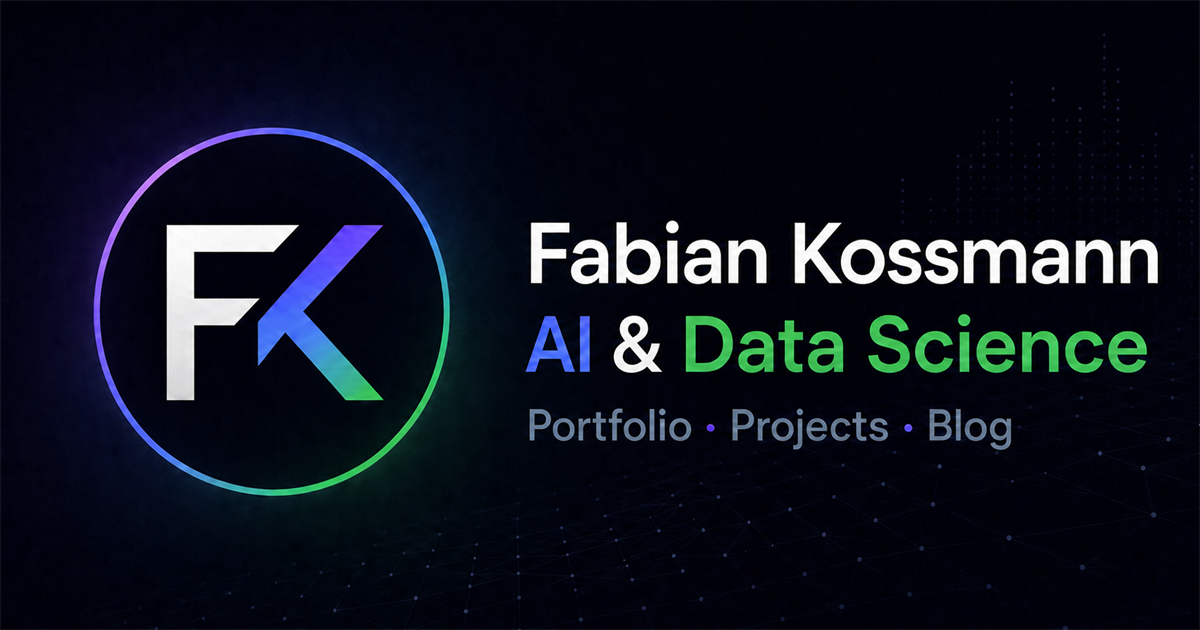
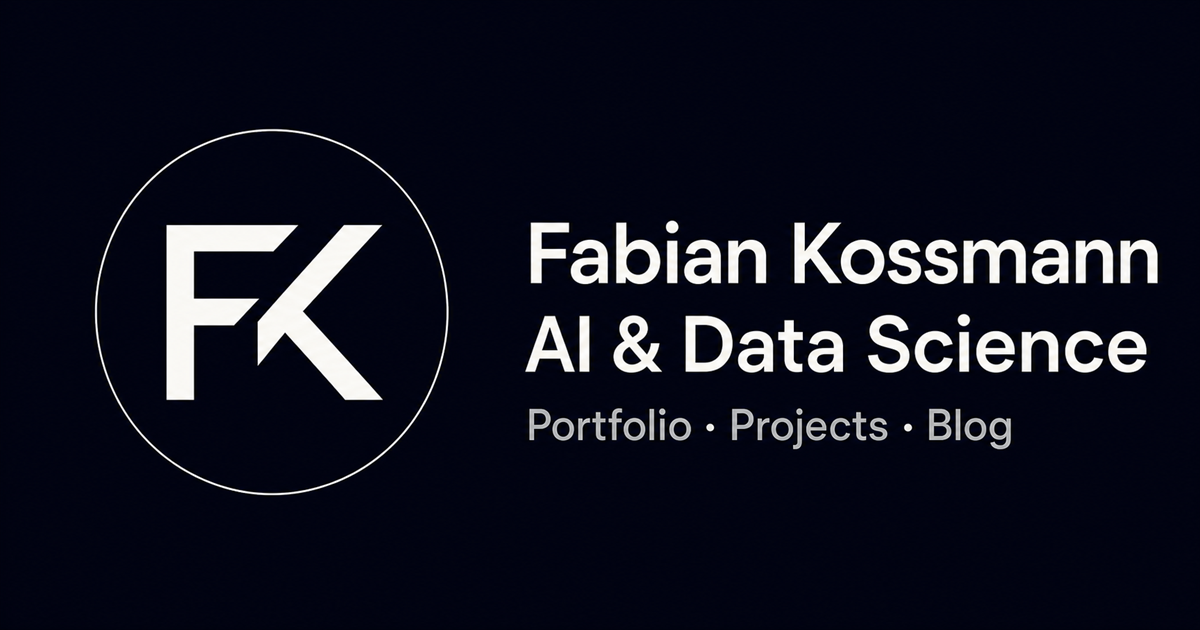
updated image

diff --git a/assets/css/style.css b/assets/css/style.css
@@ -307,7 +307,7 @@ h1 span {
   width: 68px;
   height: 68px;
   border-radius: 999px;
-  border: 2px solid rgba(255,255,255,0.9);
+  border: 1px solid rgba(255,255,255,0.32);
   background: #020617;
 }
 
